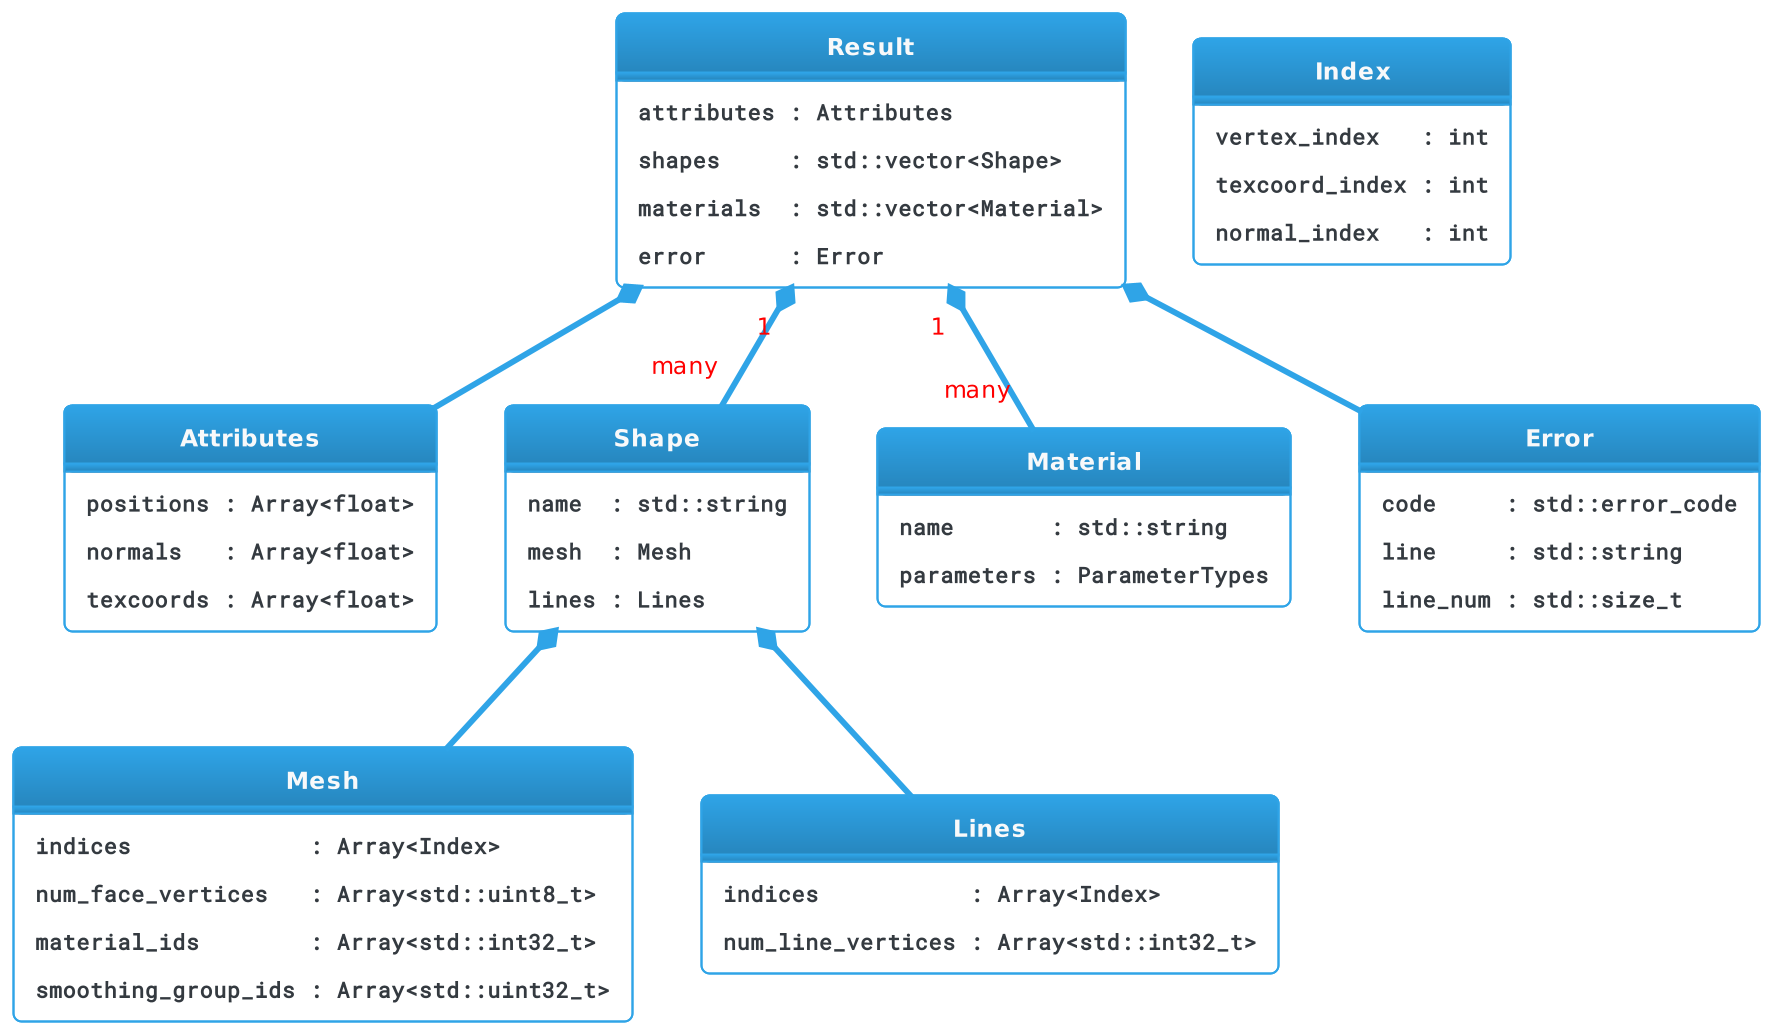
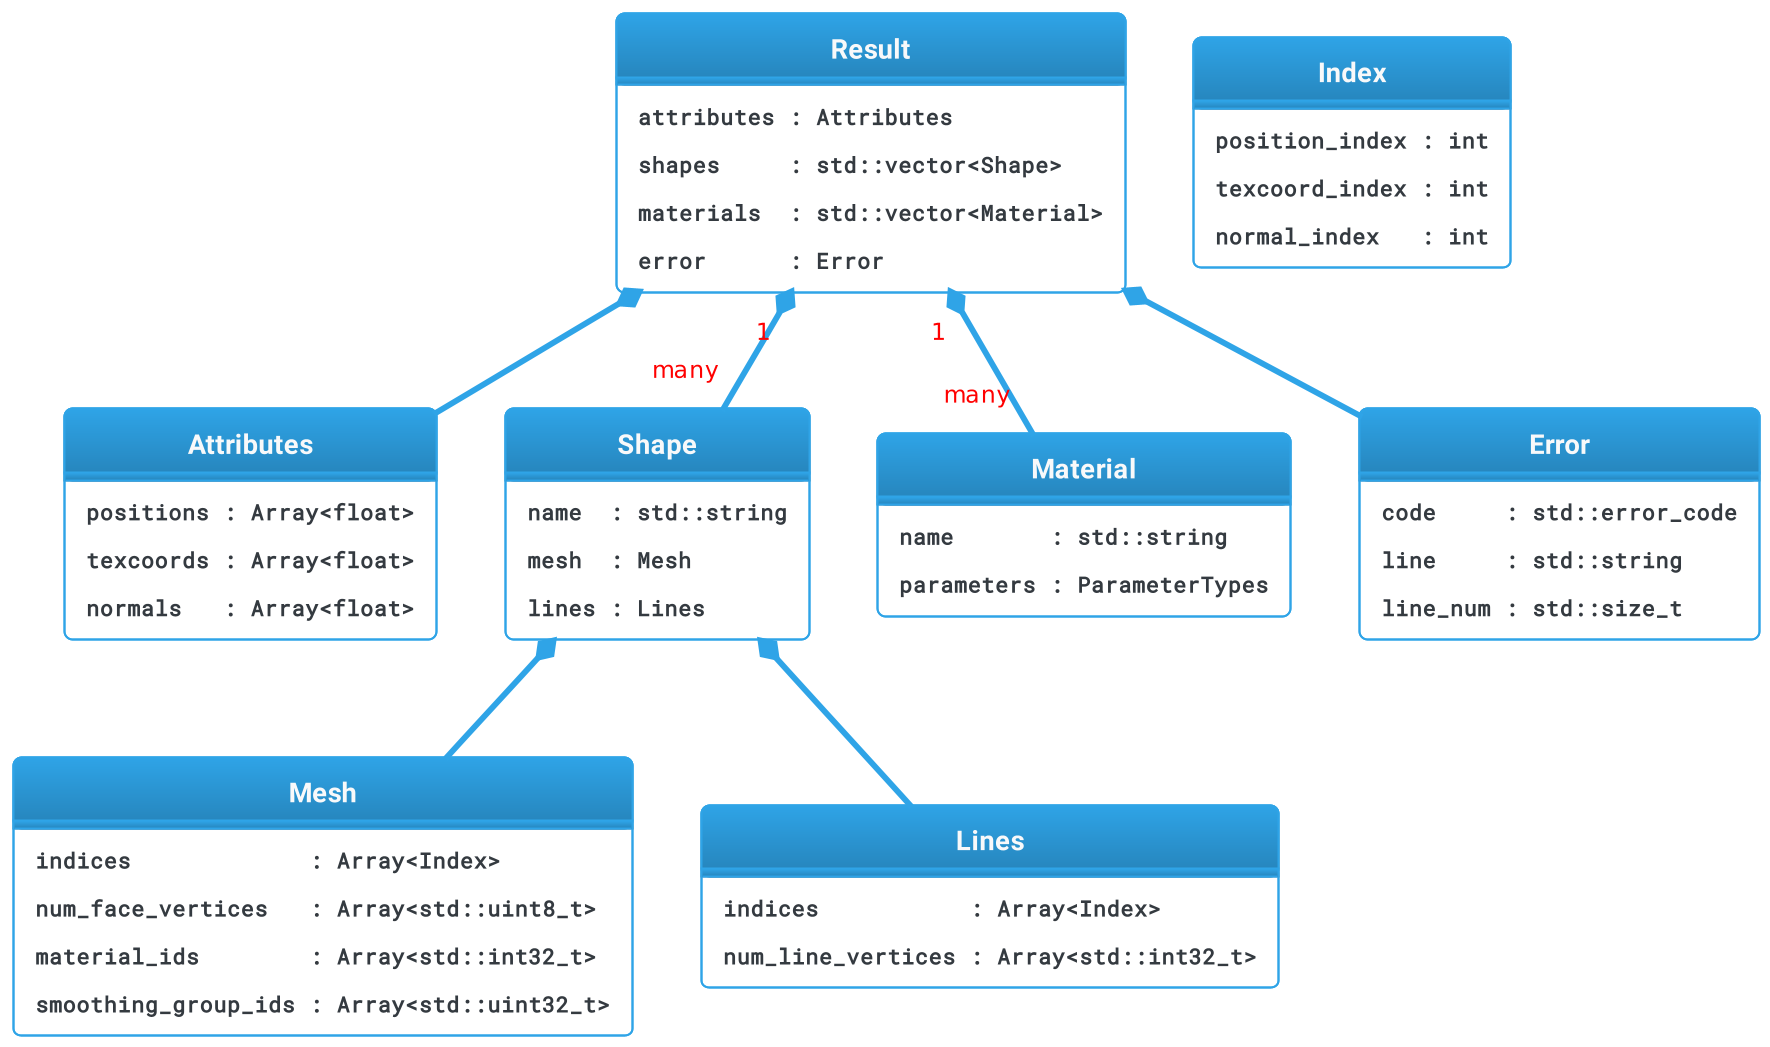
Minor refactoring of the public API

diff --git a/src/rapidobj/rapidobj.hpp b/src/rapidobj/rapidobj.hpp
@@ -146,12 +146,12 @@ bool operator!=(const Array<T>& lhs, const Array<T>& rhs)
 
 struct Attributes final {
     Array<float> positions; // 'v'  (xyz)
-    Array<float> normals;   // 'vn' (xyz)
     Array<float> texcoords; // 'vt' (uv)
+    Array<float> normals;   // 'vn' (xyz)
 };
 
 struct Index final {
-    int vertex_index;
+    int position_index;
     int texcoord_index;
     int normal_index;
 };
@@ -261,7 +261,7 @@ struct Error final {
     size_t          line_num{};
 };
 
-struct Result final {
+struct [[nodiscard]] Result final {
     Attributes attributes;
     Shapes     shapes;
     Materials  materials;
@@ -3625,7 +3625,7 @@ struct CopyIndices final {
     auto Execute() const noexcept
     {
         for (size_t i = 0; i != state.size; ++i) {
-            auto vertex_index   = state.src[i].vertex_index;
+            auto position_index = state.src[i].position_index;
             auto texcoord_index = state.src[i].texcoord_index;
             auto normal_index   = state.src[i].normal_index;
             auto offset_flags   = state.offset_flags[i];
@@ -3633,9 +3633,9 @@ struct CopyIndices final {
             bool is_out_of_bounds = false;
 
             if (offset_flags & ApplyOffset::Position) {
-                vertex_index += static_cast<int>(state.position_offset);
+                position_index += static_cast<int>(state.position_offset);
             }
-            is_out_of_bounds |= vertex_index < 0 || vertex_index >= static_cast<int>(state.num_positions);
+            is_out_of_bounds |= position_index < 0 || position_index >= static_cast<int>(state.num_positions);
 
             if (offset_flags & ApplyOffset::Texcoord) {
                 texcoord_index += static_cast<int>(state.texcoord_offset);
@@ -3657,7 +3657,7 @@ struct CopyIndices final {
                 return rapidobj_errc::IndexOutOfBoundsError;
             }
 
-            state.dst[i].vertex_index   = vertex_index;
+            state.dst[i].position_index = position_index;
             state.dst[i].texcoord_index = texcoord_index;
             state.dst[i].normal_index   = normal_index;
         }
@@ -5074,7 +5074,7 @@ inline Result Merge(const std::vector<Chunk>& chunks, SharedContext* context)
         normals_size += chunk.normals.buffer.size();
     }
 
-    auto attributes = Attributes{ { positions_size }, { normals_size }, { texcoords_size } };
+    auto attributes = Attributes{ { positions_size }, { texcoords_size }, { normals_size } };
 
     auto positions_destination = attributes.positions.data();
     auto texcoords_destination = attributes.texcoords.data();
@@ -5656,26 +5656,26 @@ inline bool TriangulateSingleTask(const Array<float>& positions, const Triangula
 
             bool d02_is_less{};
             {
-                auto vertex_index0 = 3 * static_cast<size_t>(index0.vertex_index);
-                auto vertex_index1 = 3 * static_cast<size_t>(index1.vertex_index);
-                auto vertex_index2 = 3 * static_cast<size_t>(index2.vertex_index);
-                auto vertex_index3 = 3 * static_cast<size_t>(index3.vertex_index);
+                auto position_index0 = 3 * static_cast<size_t>(index0.position_index);
+                auto position_index1 = 3 * static_cast<size_t>(index1.position_index);
+                auto position_index2 = 3 * static_cast<size_t>(index2.position_index);
+                auto position_index3 = 3 * static_cast<size_t>(index3.position_index);
 
-                auto pos0_x = positions[vertex_index0 + 0];
-                auto pos0_y = positions[vertex_index0 + 1];
-                auto pos0_z = positions[vertex_index0 + 2];
+                auto pos0_x = positions[position_index0 + 0];
+                auto pos0_y = positions[position_index0 + 1];
+                auto pos0_z = positions[position_index0 + 2];
 
-                auto pos1_x = positions[vertex_index1 + 0];
-                auto pos1_y = positions[vertex_index1 + 1];
-                auto pos1_z = positions[vertex_index1 + 2];
+                auto pos1_x = positions[position_index1 + 0];
+                auto pos1_y = positions[position_index1 + 1];
+                auto pos1_z = positions[position_index1 + 2];
 
-                auto pos2_x = positions[vertex_index2 + 0];
-                auto pos2_y = positions[vertex_index2 + 1];
-                auto pos2_z = positions[vertex_index2 + 2];
+                auto pos2_x = positions[position_index2 + 0];
+                auto pos2_y = positions[position_index2 + 1];
+                auto pos2_z = positions[position_index2 + 2];
 
-                auto pos3_x = positions[vertex_index3 + 0];
-                auto pos3_y = positions[vertex_index3 + 1];
-                auto pos3_z = positions[vertex_index3 + 2];
+                auto pos3_x = positions[position_index3 + 0];
+                auto pos3_y = positions[position_index3 + 1];
+                auto pos3_z = positions[position_index3 + 2];
 
                 auto e02_x = pos0_x - pos2_x;
                 auto e02_y = pos0_y - pos2_y;
@@ -5717,11 +5717,11 @@ inline bool TriangulateSingleTask(const Array<float>& positions, const Triangula
             index_map.clear();
 
             for (size_t k = 0; k != num_vertices; ++k) {
-                auto vertex_index = 3 * static_cast<size_t>(src->indices[isrc + k].vertex_index);
+                auto position_index = 3 * static_cast<size_t>(src->indices[isrc + k].position_index);
                 index_map.push_back(isrc + k);
-                xs[k] = positions[vertex_index + 0];
-                ys[k] = positions[vertex_index + 1];
-                zs[k] = positions[vertex_index + 2];
+                xs[k] = positions[position_index + 0];
+                ys[k] = positions[position_index + 1];
+                zs[k] = positions[position_index + 2];
             }
 
             isrc += num_vertices;

diff --git a/tools/make-test/src/make-test.cpp b/tools/make-test/src/make-test.cpp
@@ -15,9 +15,9 @@ std::ostream& operator<<(std::ostream& os, const rapidobj::Index& index)
 {
     using std::to_string;
 
-    const auto& [ivertex, itex, inormal] = index;
+    const auto& [iposition, itex, inormal] = index;
 
-    auto out = std::string("{ " + to_string(ivertex) + ", " + to_string(itex) + ", " + to_string(inormal) + " }");
+    auto out = std::string("{ " + to_string(iposition) + ", " + to_string(itex) + ", " + to_string(inormal) + " }");
 
     os << out;
 
@@ -103,7 +103,7 @@ bool operator!=(const rapidobj::Material& lhs, const tinyobj::material_t& rhs)
 
 bool operator==(const rapidobj::Index lhs, const tinyobj::index_t rhs)
 {
-    return lhs.vertex_index == rhs.vertex_index && lhs.texcoord_index == rhs.texcoord_index &&
+    return lhs.position_index == rhs.vertex_index && lhs.texcoord_index == rhs.texcoord_index &&
            lhs.normal_index == rhs.normal_index;
 }
 

diff --git a/tests/unit-tests/src/test_parsing.cpp b/tests/unit-tests/src/test_parsing.cpp
@@ -4,8 +4,8 @@
 
 bool operator==(const rapidobj::Index& lhs, const rapidobj::Index& rhs) noexcept
 {
-    return lhs.vertex_index == rhs.vertex_index && lhs.normal_index == rhs.normal_index &&
-           lhs.texcoord_index == rhs.texcoord_index;
+    return lhs.position_index == rhs.position_index && lhs.texcoord_index == rhs.texcoord_index &&
+           lhs.normal_index == rhs.normal_index;
 }
 
 bool operator==(rapidobj::detail::OffsetFlags lhs, const rapidobj::detail::ApplyOffset& rhs) noexcept

diff --git a/tools/serializer/include/serializer/serializer.hpp b/tools/serializer/include/serializer/serializer.hpp
@@ -7,7 +7,7 @@ namespace rapidobj {
 //
 inline bool operator==(const Index& lhs, const Index& rhs)
 {
-    return lhs.vertex_index == rhs.vertex_index && lhs.texcoord_index == rhs.texcoord_index &&
+    return lhs.position_index == rhs.position_index && lhs.texcoord_index == rhs.texcoord_index &&
            lhs.normal_index == rhs.normal_index;
 }
 

diff --git a/tools/serializer/src/serializer.cpp b/tools/serializer/src/serializer.cpp
@@ -56,7 +56,7 @@ void load(Archive& archive, Array<T>& arr)
 template <typename Archive>
 void serialize(Archive& archive, Index& index)
 {
-    archive(index.vertex_index, index.texcoord_index, index.normal_index);
+    archive(index.position_index, index.texcoord_index, index.normal_index);
 }
 
 template <typename Archive>
